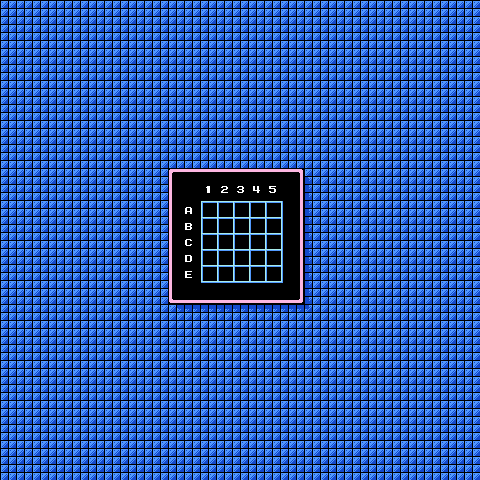
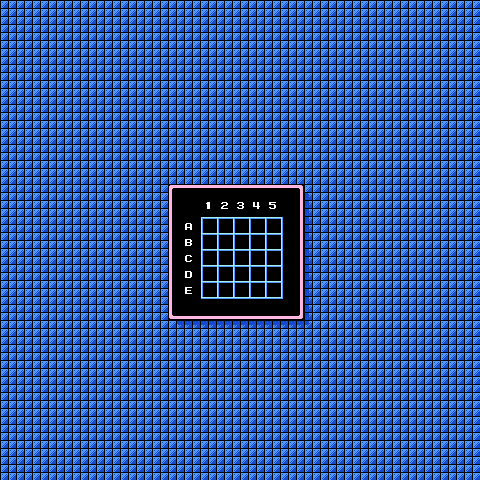
Working password display for Mega Man 2.

Changed region(s): [[0.3438, 0.5938, 0.6562, 0.6875], [0.3438, 0.3438, 0.6562, 0.4375]]

diff --git a/Mega Man Password Generator/PasswordViewController.m b/Mega Man Password Generator/PasswordViewController.m
@@ -48,8 +48,8 @@
         
         // calculate my offset from center for the column
         CGRect dotFrame = CGRectMake(
-            center.x + game.cellWidth * (unit.column - 1 - (game.gridColumns / 2.0)),
-            center.y + game.cellHeight * (unit.row - 'A' - (game.gridRows / 2.0)),
+            center.x + game.xOffset + game.cellWidth * (unit.column - 1 - (game.gridColumns / 2.0)),
+            center.y + game.yOffset + game.cellHeight * (unit.row - 'A' - (game.gridRows / 2.0)),
             game.cellWidth,
             game.cellHeight
         );

diff --git a/Mega Man Password Generator/Game.h b/Mega Man Password Generator/Game.h
@@ -22,6 +22,8 @@
 @property (nonatomic, readonly) NSUInteger gridRows;
 @property (nonatomic, readonly) NSUInteger cellHeight;
 @property (nonatomic, readonly) NSUInteger cellWidth;
+@property (nonatomic, readonly) NSInteger xOffset;
+@property (nonatomic, readonly) NSInteger yOffset;
 
 - (Boss*) bossWithCode:(NSString*)code;
 - (Item*) itemWithCode:(NSString*)code;
